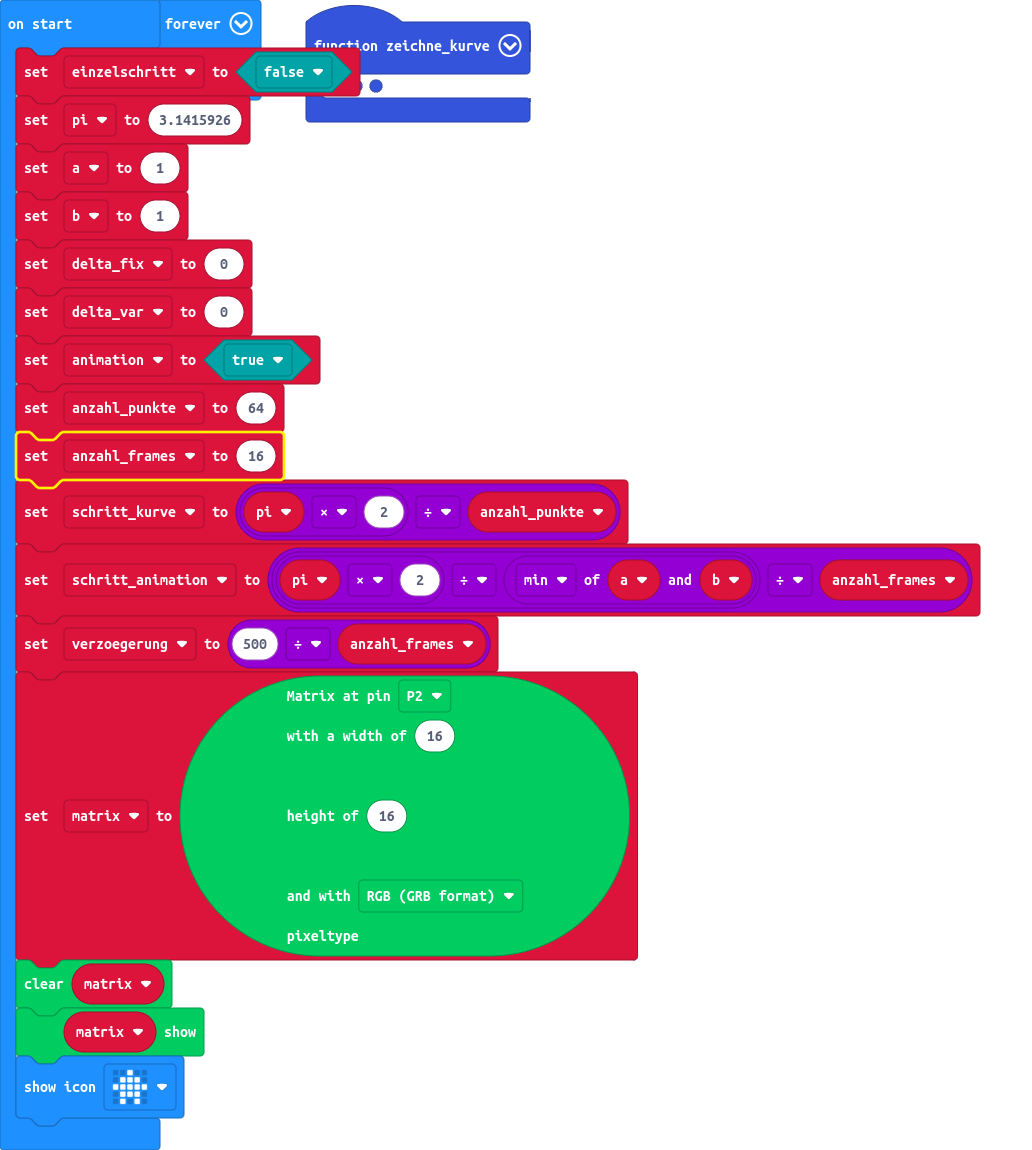
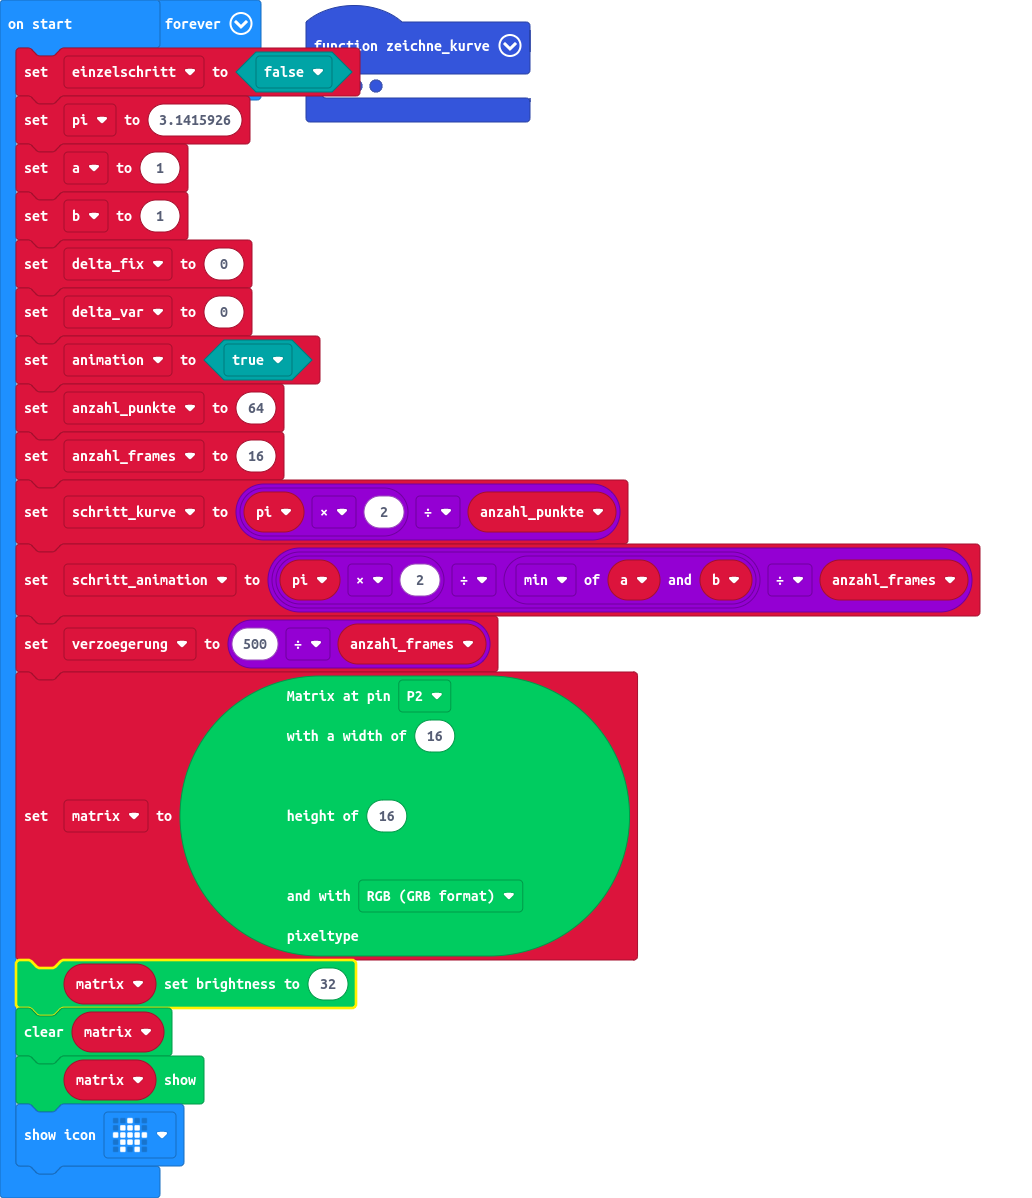
set brightness to 32

Changed region(s): [[0.0, 0.0, 0.9612, 0.9739]]

diff --git a/main.ts b/main.ts
@@ -38,6 +38,7 @@ DigitalPin.P2,
 16,
 NeoPixelMode.RGB
 )
+matrix.Brightness(32)
 matrix.clear()
 matrix.show()
 basic.showIcon(IconNames.House)
